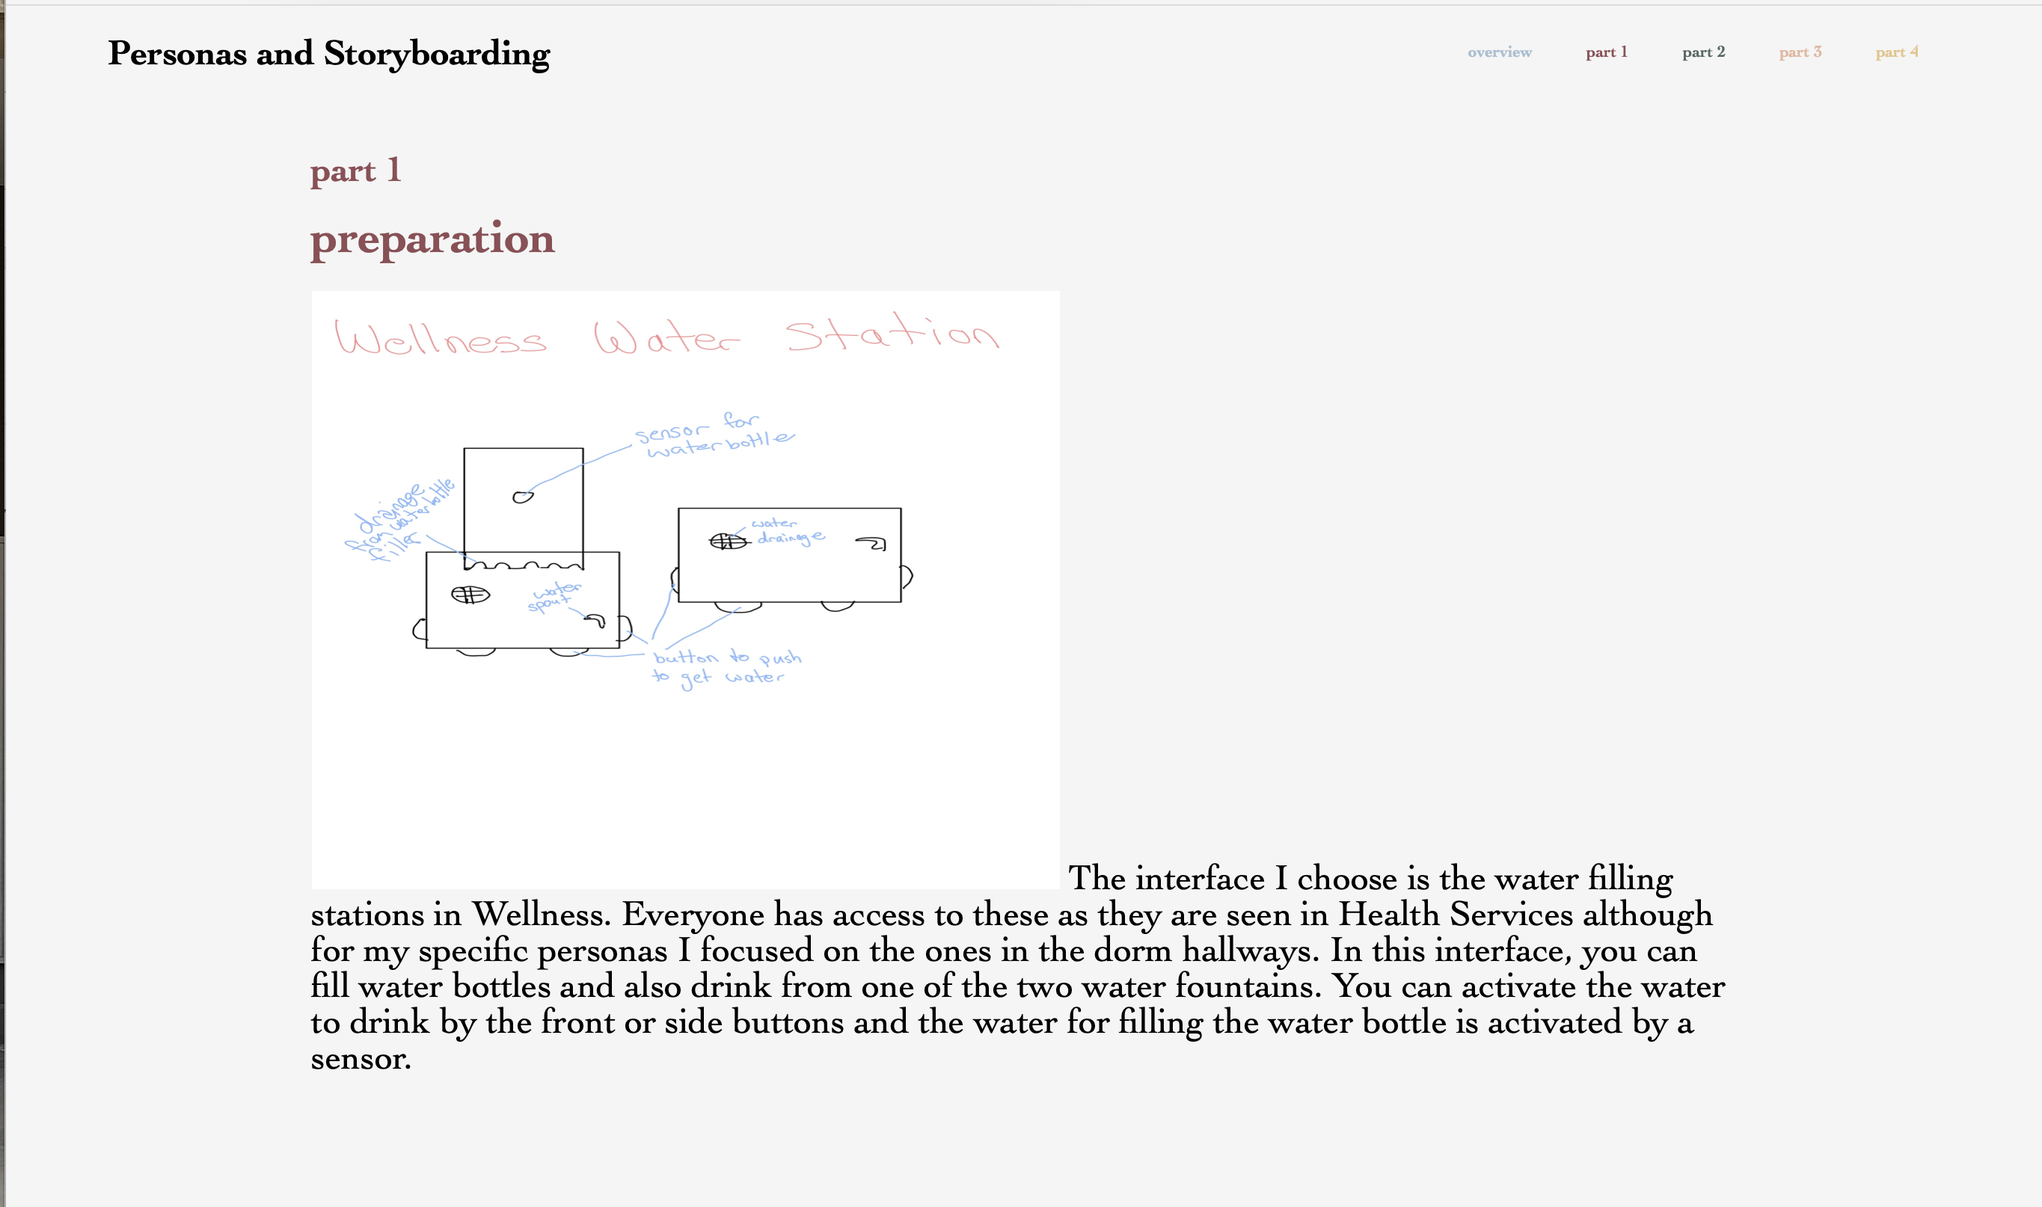
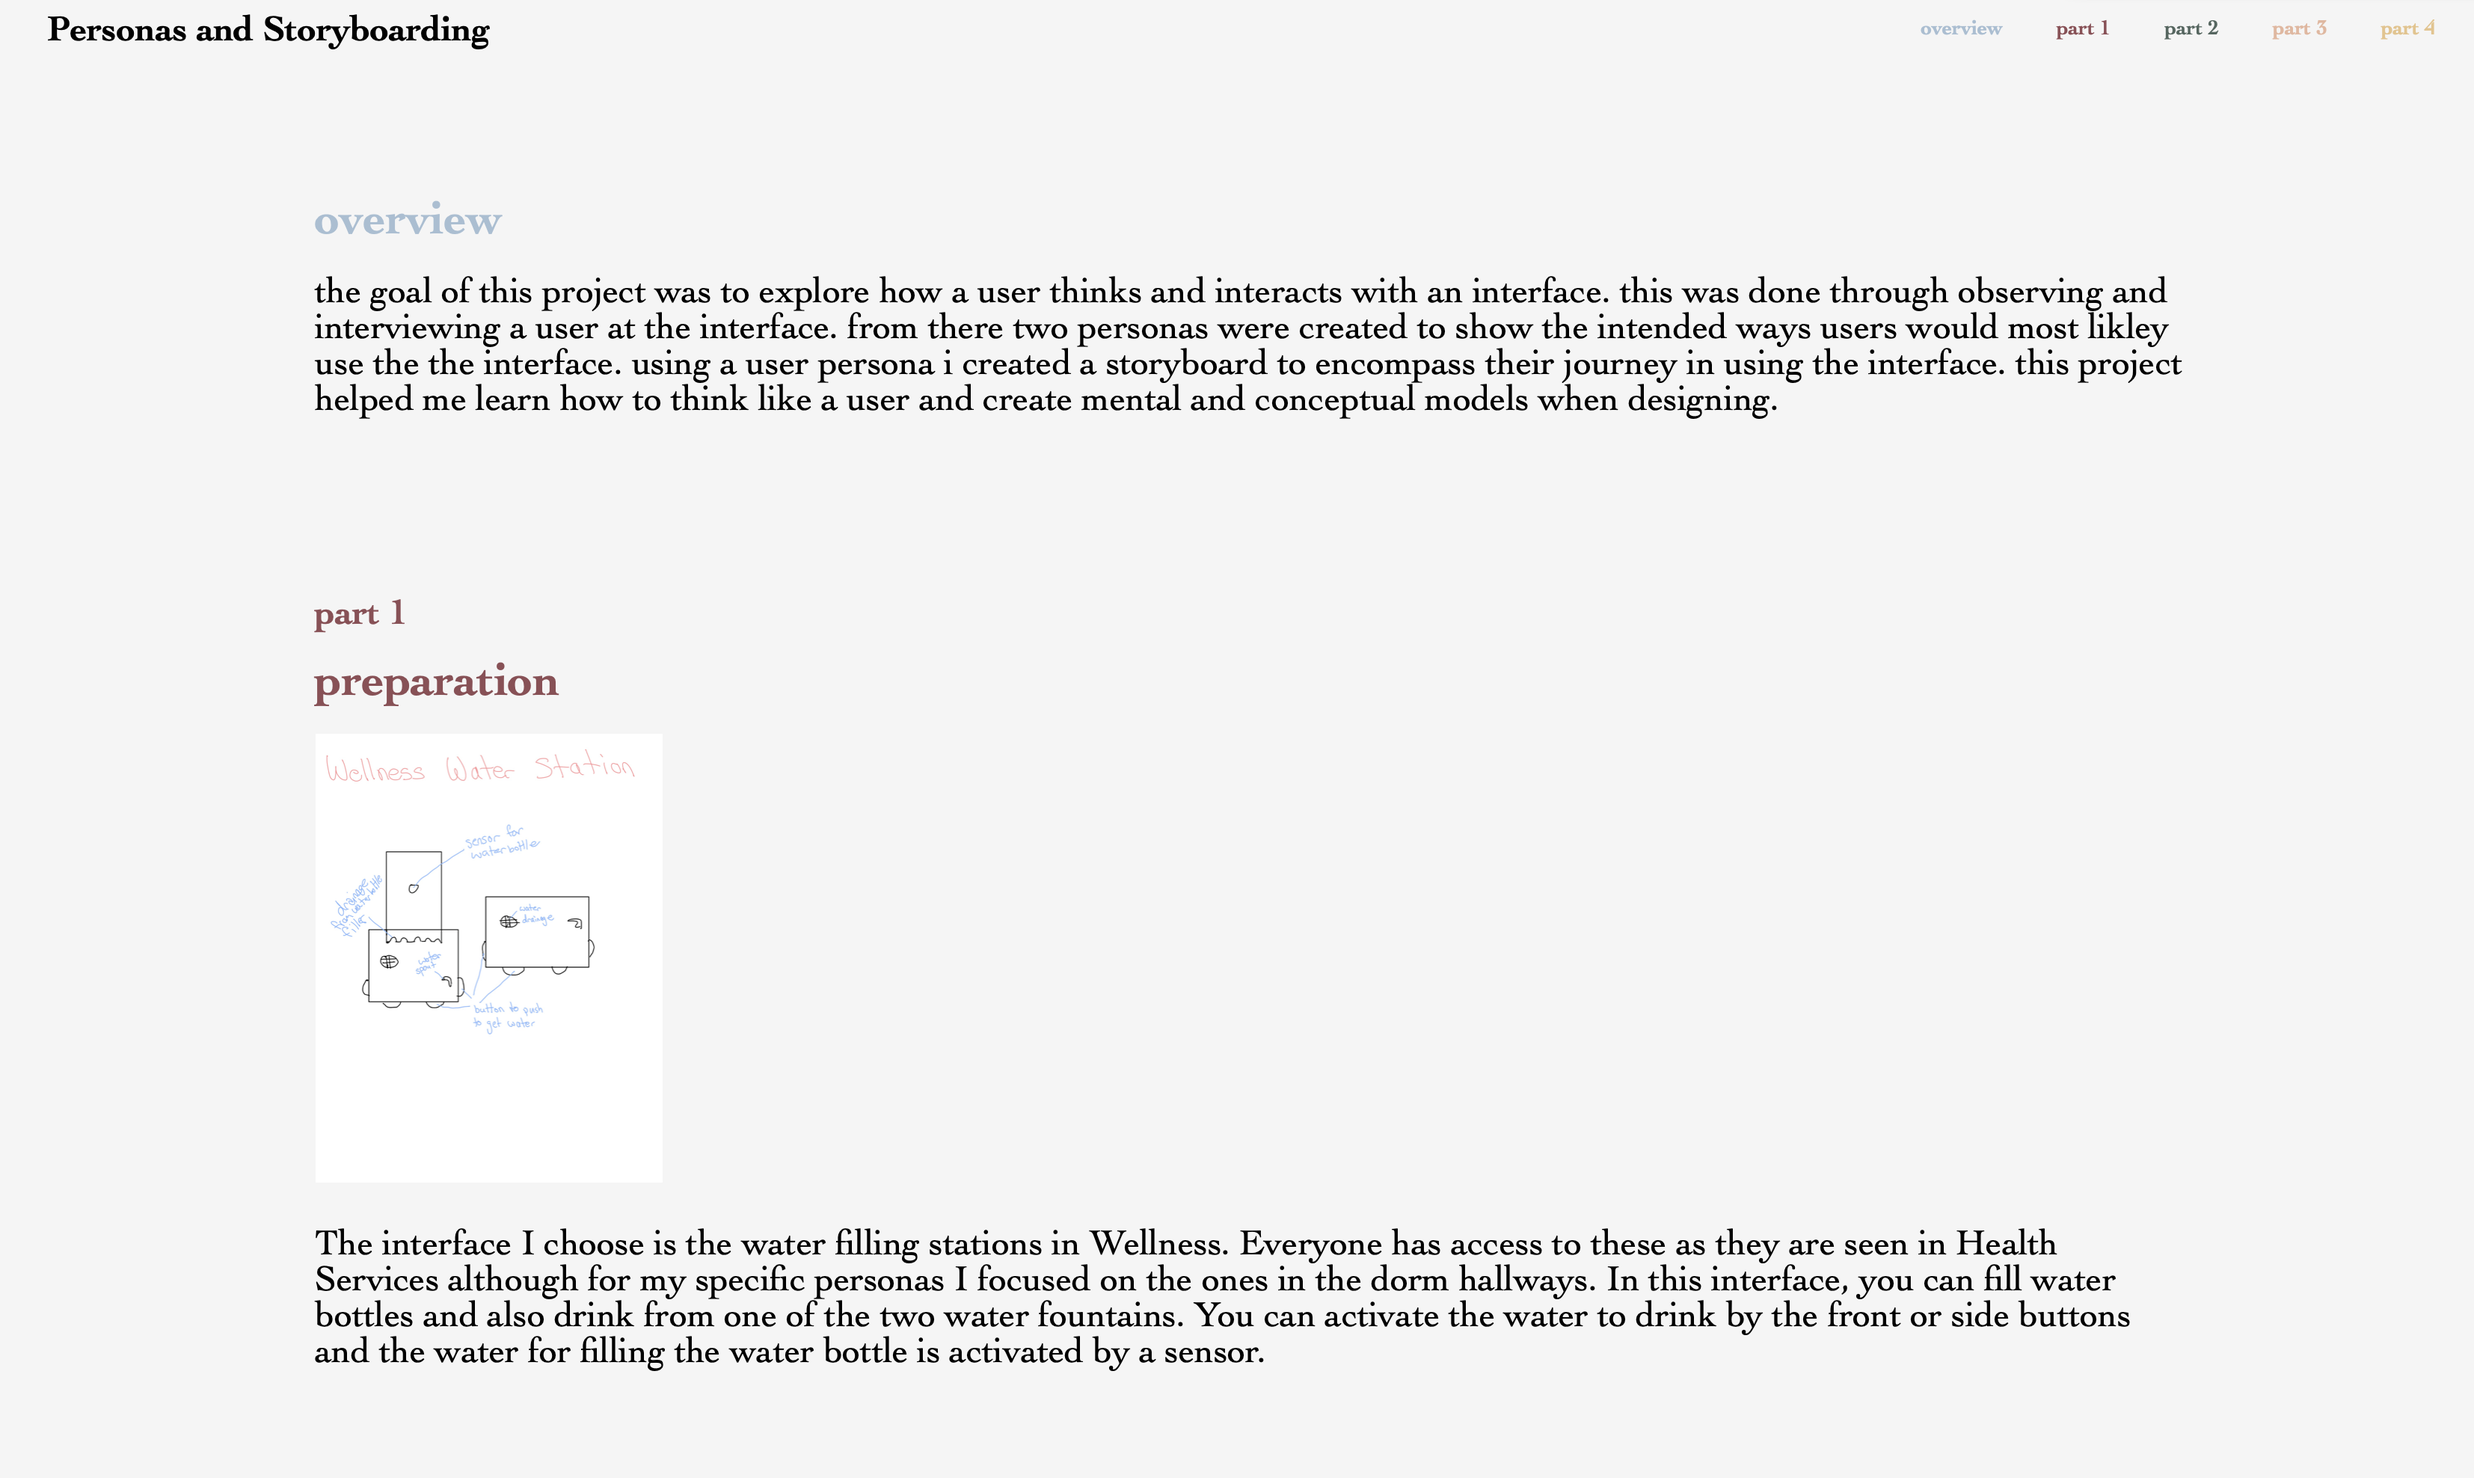
Add files via upload
updated

diff --git a/index.html b/index.html
@@ -15,9 +15,9 @@
             <div class="navbar-item-container">
                 <a class="navbar-item" id="navbar-item-intro" href="#introduction">introduction</a>
                 <a class="navbar-item" id="navbar-item-p1" href="#personas">phase 1: thinking</a>
-                <a class="navbar-item" id="navbar-item-p2" href="#mockups">phase 2: prototyping</a>
-                <a class="navbar-item" id="navbar-item-p3" href="#user-testing">phase 3: design</a>
-                <a class="navbar-item" id="navbar-item-p4" href="#contacting-startup">phase 4: web development</a>
+                <a class="navbar-item" id="navbar-item-p2" href="#hifi">phase 2: prototyping</a>
+                <a class="navbar-item" id="navbar-item-p3" href="#iterative-design">phase 3: design</a>
+                <a class="navbar-item" id="navbar-item-p4" href="#web-app">phase 4: web development</a>
             </div>
 
             <!--<div class="navbar-line"></div>-->
@@ -35,7 +35,7 @@
 
             </div>
 
-            <div class="main-sections" id="sketching-and-wireframing" href="#personas" style="padding-top: 6%;">
+            <div class="main-sections" id="personas" href="#personas" style="padding-top: 6%;">
                 <h2 id="main-section-p1-header">phase 1: thinking</h2>
                 <h1 id="main-section-p1-header">personas</h1>
 
@@ -46,7 +46,7 @@
                         project helped me learn how to think like a user and create mental and conceptual models when designing. 
                     </p>
                     <h2>project preview</h2> 
-                    <img src = "home/personashome.png">
+                    <img class = "home-img"src = "home/personashome.png">
                     <p>click <a href = "personas.html" target="_blank"> here</a> to explore more about this project</p>
     
                  
@@ -54,7 +54,7 @@
 
             </div>
 
-            <div class="main-sections" id="mockups" href="#mockups">
+            <div class="main-sections" id="hifi" href="#hifi">
                 <h2 id="main-section-p2-header">phase 2: prototyping</h2>
                 <h1 id="main-section-p2-header">hifi prototyping</h1>
                 
@@ -65,7 +65,7 @@
                         applications using Figma. 
                     </p>
                     <h2>project preview</h2> 
-                    <img src = "">
+                    <img class = "home-img" src = "home/hifihome.png">
                     <p>click <a href = "studio.html" target="_blank"> here</a> to explore more about this project</p>
 
                 
@@ -73,7 +73,7 @@
 
             </div>
 
-            <div class="main-sections" id="user-testing" href="#user-testing">
+            <div class="main-sections" id="iterative-design" href="#iterative-design">
                 <h2 id="main-section-p3-header">phase 3: design</h2>
                 <h1 id="main-section-p3-header">iterative design</h1>
                 <h2>tldr:</h2>
@@ -83,13 +83,13 @@
                 </p>
 
                 <h2>project preview</h2> 
-                <img src = "home/iterativehome.png">
+                <img class = "home-img" src = "home/iterativehome.png">
                 <p>click <a href = "iterative.html" target="_blank"> here</a> to explore more about this project</p>
 
              
             </div>
 
-            <div class="main-sections" id="contacting-startup" href="#contacting-startup">
+            <div class="main-sections" id="web-app" href="#web-app">
                 <h2 id="main-section-p4-header">phase 4: web development</h2>
                 <h1 id="main-section-p4-header">better brown u app</h1>
                 <h2>tldr:</h2>
@@ -98,10 +98,9 @@
                     the better brown u app.      
                 </p>
                 <h2>website preview</h2>
-                <img src ="home/32homepage.png">
+                <img class = "home-img" src ="home/32homepage.png">
                 <p>click <a href = "https://cs32termproject.web.app/" target="_blank"> here</a> to view the final website</p>
-                <h2>conclusion</h2>
-                <p></p>
+                
                  
             </div>
 

diff --git a/personas.html b/personas.html
@@ -25,20 +25,25 @@
           
         <div class="main" id="main">
             
-            <div class="main-sections" id="introduction" href="#overview">
+            <div class="main-sections" id="overview" href="#overview">
                 <h1 id="main-section-intro-header">overview</h1>
-                <p> The goal of this project was to create personas and 
+                <p> the goal of this project was to explore how a user thinks and interacts with an interface. this was done
+                    through observing and interviewing a user at the interface. from there two personas were created to show 
+                    the intended ways users would most likley use the the interface. using a user persona i created a storyboard
+                    to encompass their journey in using the interface. this project helped me learn how to think like a user and 
+                    create mental and conceptual models when designing.
                 </p>
 
 
 
             </div>
 
-            <div class="main-sections" id="sketching-and-wireframing" href="#part1" style="padding-top: 6%;">
+            <div class="main-sections" id="part1" href="#part1" style="padding-top: 6%;">
                 <h2 id="main-section-p1-header">part 1</h2>
                 <h1 id="main-section-p1-header">preparation</h1>
                 <p>
-                    <img src="personas/Personas-1.jpg"/>
+                    <img class="personas-img" src="personas/Personas-1.jpg"/>
+                    <br></br>
                     The interface I choose is the water filling stations in Wellness. 
                     Everyone has access to these as they are seen in Health Services 
                     although for my specific personas I focused on the ones in the dorm 
@@ -49,7 +54,7 @@
                 </p>
             </div>
 
-            <div class="main-sections" id="mockups" href="#part2">
+            <div class="main-sections" id="part2" href="#part2">
                 <h2 id="main-section-p2-header">part 2</h2>
                 <h1 id="main-section-p2-header">recording observations</h1>
                 <p>Watching the user interact with the interface I noticed some key things. 
@@ -82,22 +87,22 @@
 
             </div>
 
-            <div class="main-sections" id="user-testing" href="#part3">
+            <div class="main-sections" id="part3" href="#part3">
                 <h2 id="main-section-p3-header">part 3</h2>
                 <h1 id="main-section-p3-header">persona diagrams</h1>
-                <img src = "personas/Personas-2.jpg" />
+                <img class="personas-img" src = "personas/Personas-2.jpg" />
                 <p>Persona #1 Sweaty Steven</p>
-                <img src = "personas/Personas-3.jpg" />
+                <img class="personas-img" src = "personas/Personas-3.jpg" />
                 <p>Persona #2 Thirsty Tina</p>
 
              
             </div>
 
-            <div class="main-sections" href="#part4">
+            <div class="main-sections" id="part4" href="#part4">
                 <h2 id="main-section-p4-header">part 4</h2>
                 <h1 id="main-section-p4-header">storyboard</h1>
-                <img src ="personas/Personas-4.jpg"/>
-                <img src ="personas/Personas-5.jpg"/>
+                <img class="personas-img" src ="personas/Personas-4.jpg"/>
+                <img class="personas-img" src ="personas/Personas-5.jpg"/>
             </div>
 
         </div>

diff --git a/style.css b/style.css
@@ -18,9 +18,21 @@ html {
     background-color: whitesmoke;
 }
 
-img{
-    width: 500px;
+.personas-img{
+    width: auto;
+    height: 300px;
+}
+
+.home-img{
+    width: auto;
     height: 400px;
+    border: 2px solid gray;
+    border-radius: 5px;
+}
+
+.studio-img{
+    width: auto;
+    height: 500px;
 }
 
 ul {
